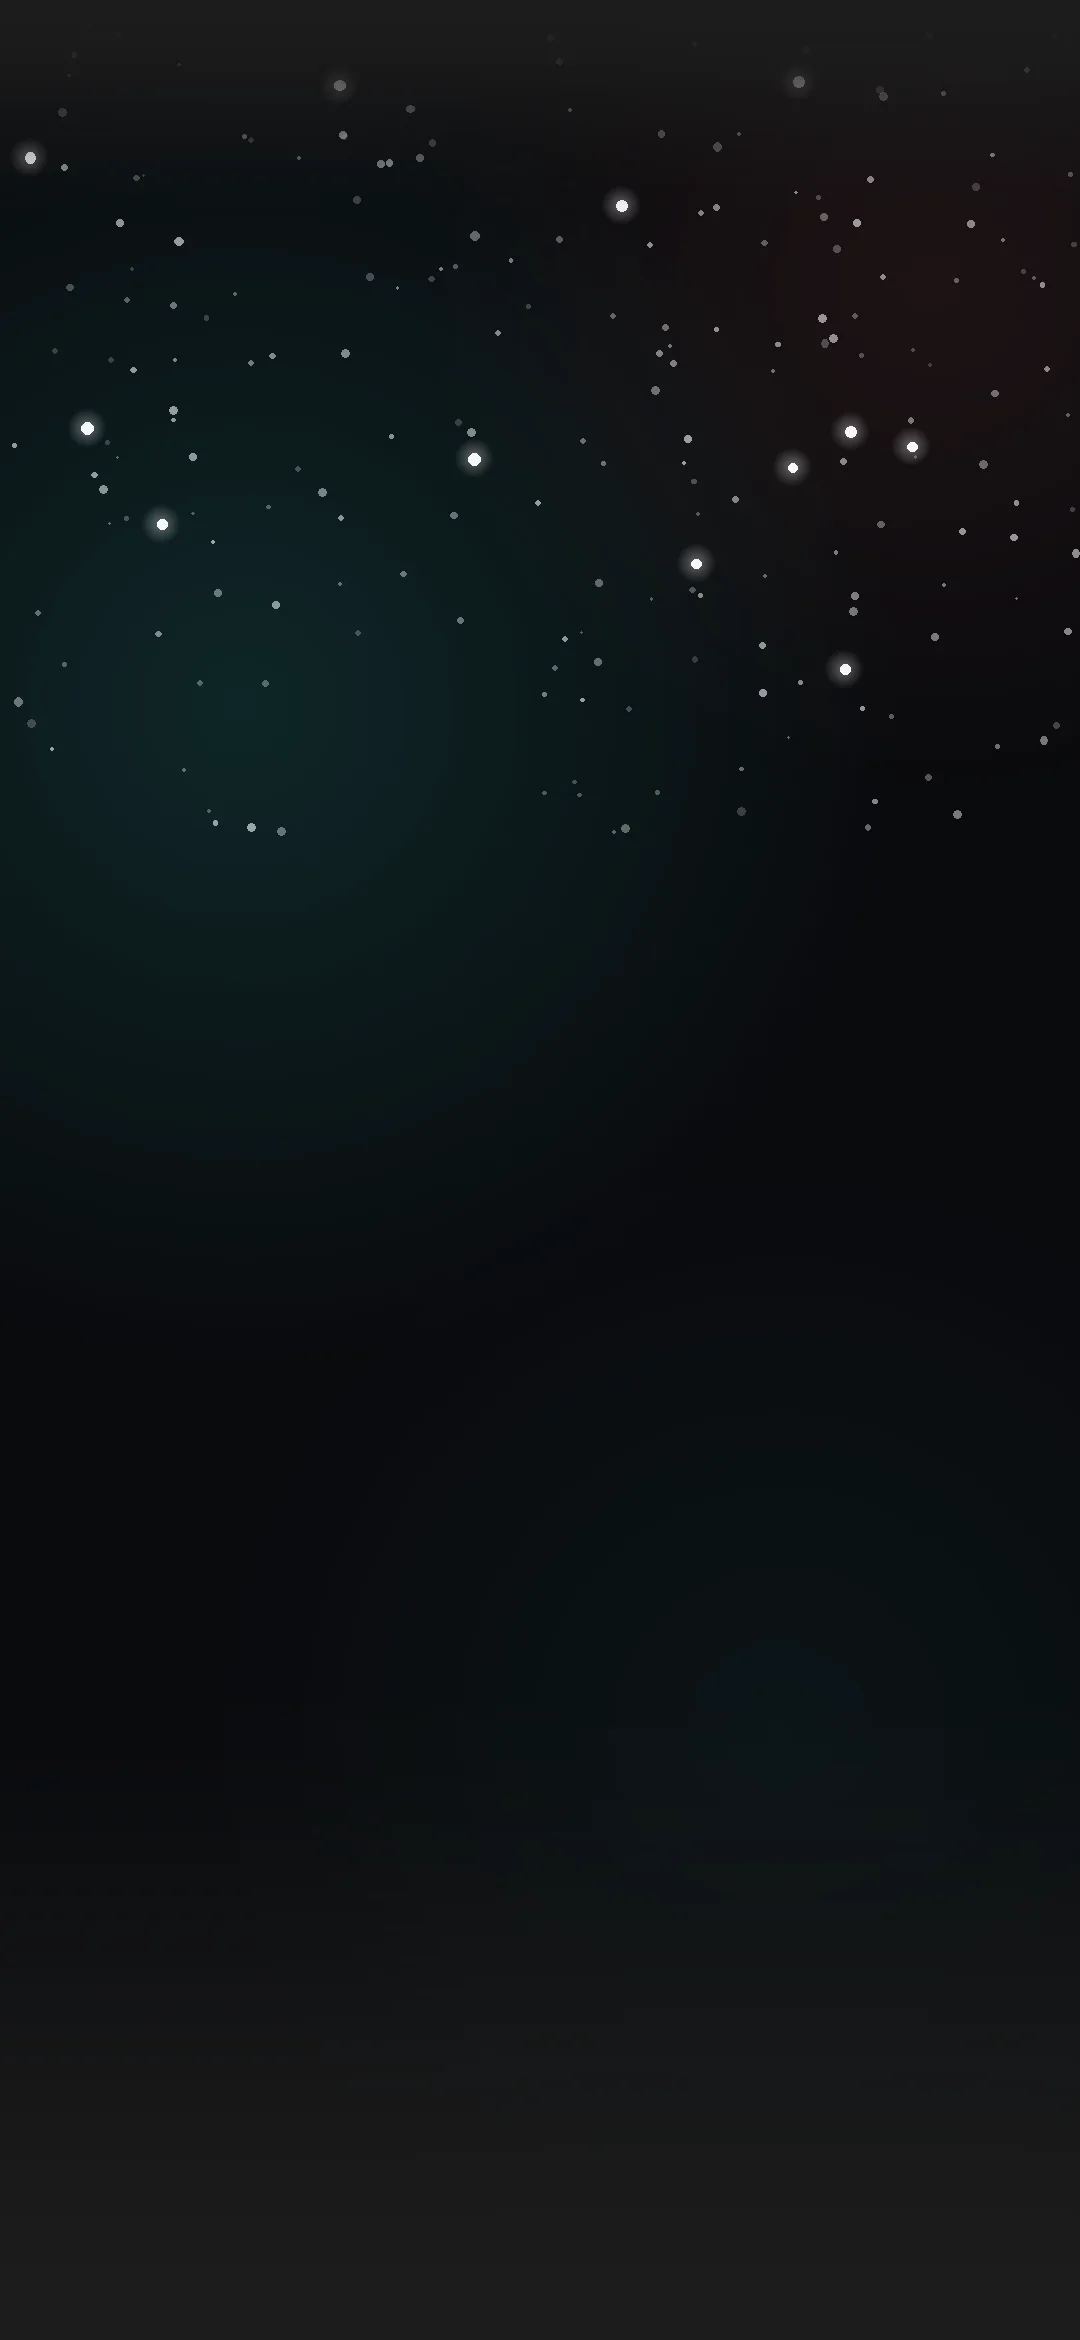
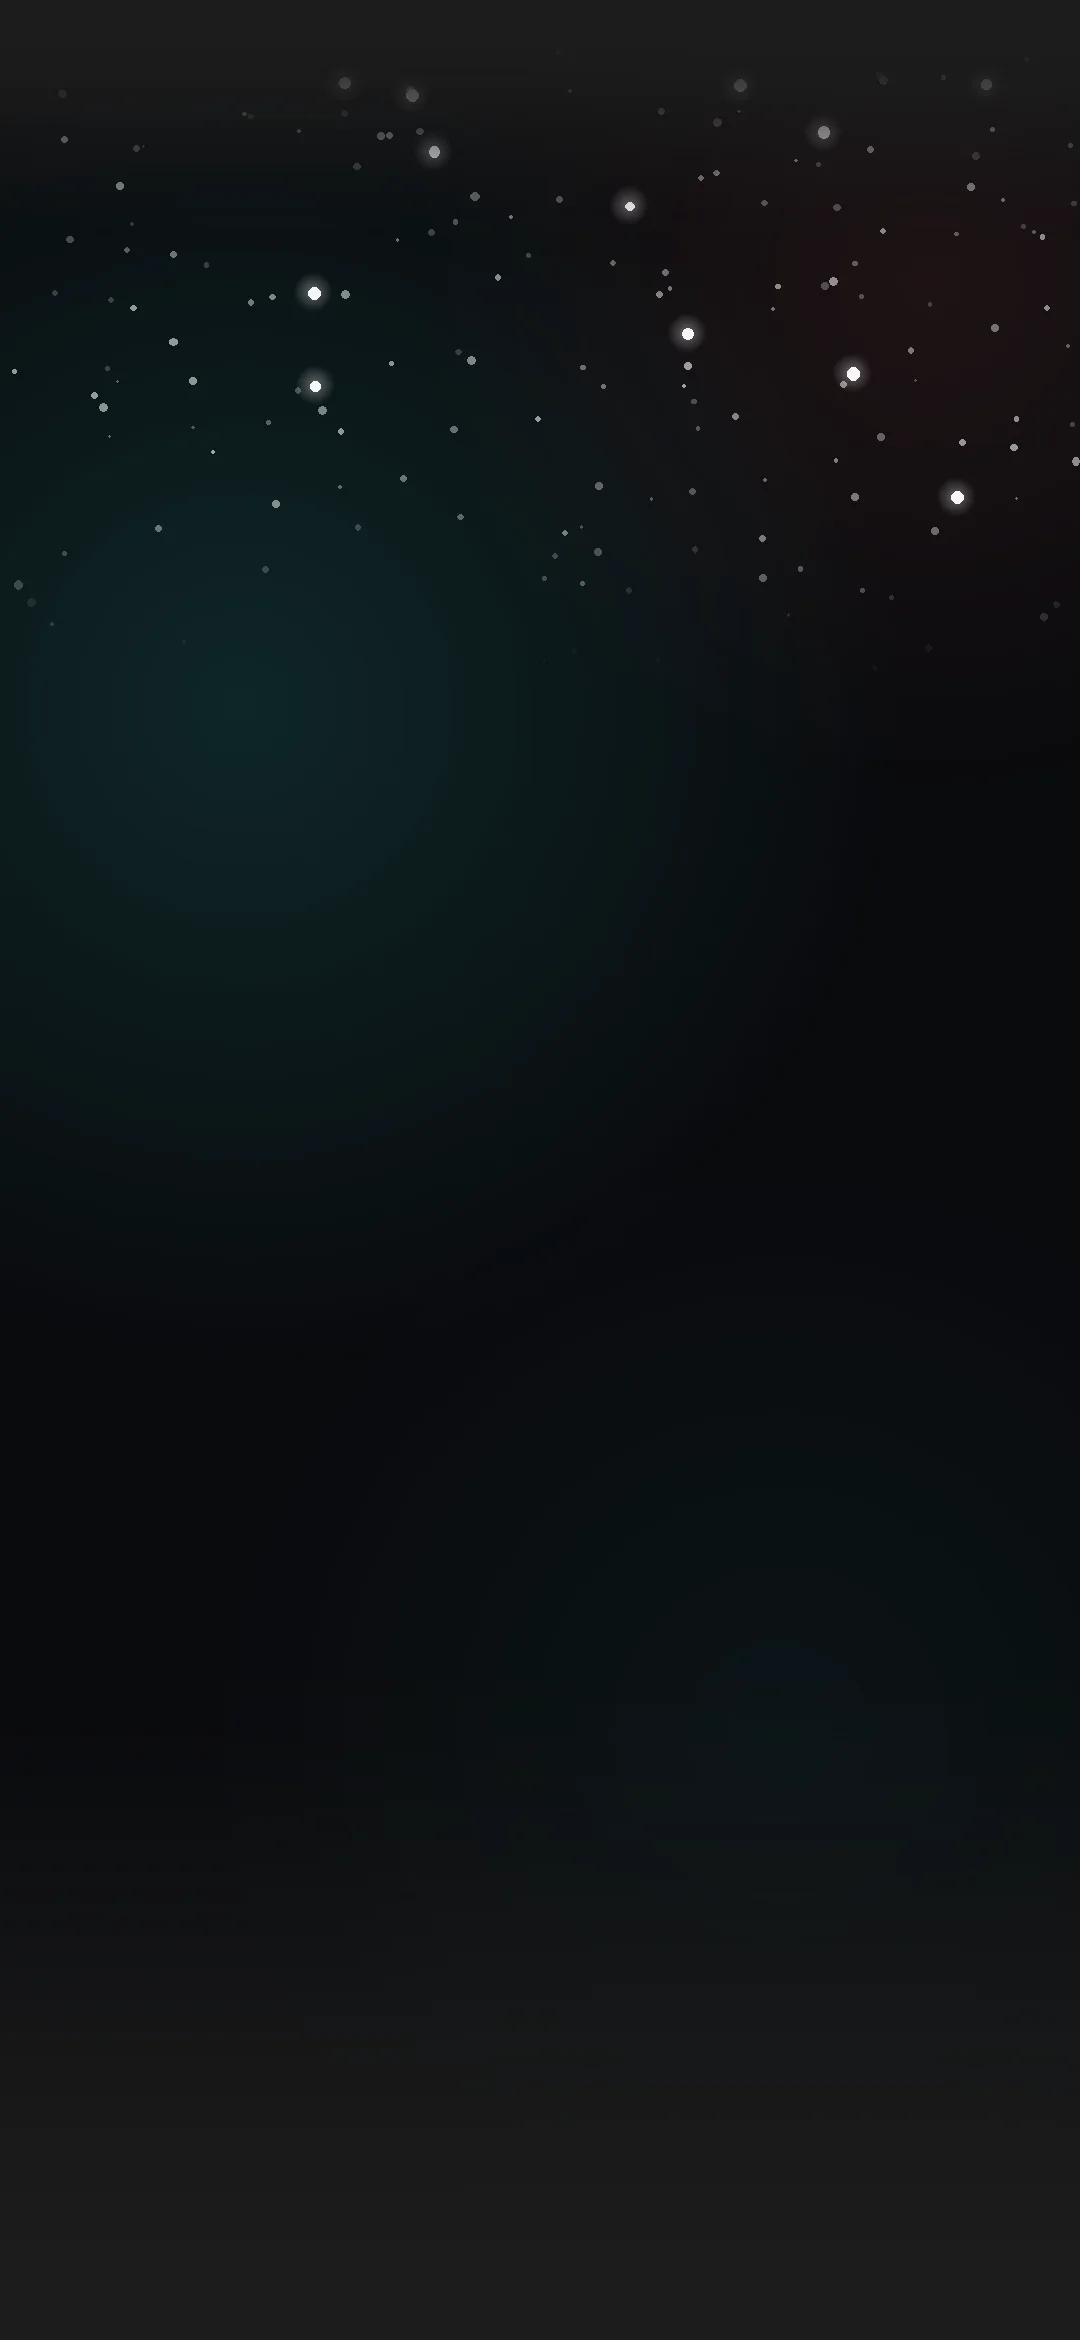
fix(aura): las estrellas se apagan antes de llegar a la leyenda
Visto en el teléfono de Carlos (360 × ~650 útiles en una pestaña de Chrome): las
estrellas llegaban hasta la leyenda y rozaban la primera entrada; un punto entre dos
palabras de «Cada lugar tiene un aura.» se leía como un apóstrofo. La zona de
estrellas (36 % del alto de la imagen) estaba calculada para una pantalla de 720 de
alto, donde la leyenda cae más abajo que en la suya.

- Las estrellas brillan a pleno hasta el 20 % del alto y se desvanecen hasta el 30 %;
  las grandes, solo hasta el 22 %. En la apaisada, 30 % → 46 %. Ya no terminan en una
  raya ni tocan el texto en reposo ni con un borrador de dos líneas.
- MARGEN de 24 px de --bg plano en cada borde fundido antes de que empiece la rampa.
  Al mover las estrellas, el codificador WebP dejó la fila 0 de la apaisada a
  (27,27,27): lo cazó el assert sobre los bytes a servir, y como ahora se comprueba
  ANTES de escribir, el archivo bueno no se pisó. Con el margen el borde sale exacto.
- Los dos .webp se regeneran (13 KB y 12 KB).

diff --git a/docs/branding/aura/genera_aura.py b/docs/branding/aura/genera_aura.py
@@ -19,10 +19,15 @@ La profundidad sale de OSCURECER el centro, no de aclarar los bordes.
 La comprobación se hace sobre el ARCHIVO ya guardado (WebP con pérdida), no sobre la imagen en
 memoria: es el archivo lo que se sirve.
 
-Las estrellas viven solo en el 36 % superior de la imagen vertical (281 px en un teléfono de 360):
-en una pantalla de 720 de alto la leyenda cae a 324 px, y una estrella pegada al texto lo ensucia.
-Esa garantía vale para teléfonos en vertical. En una tableta en vertical (768×1024) la imagen
-escala al doble y alguna estrella llega a la altura de la leyenda: caso menor, aceptado.
+Las estrellas viven arriba y se APAGAN antes de llegar al texto: a pleno brillo hasta el 20 % del
+alto de la imagen vertical (156 px en un teléfono de 360) y desvaneciéndose hasta el 30 % (234 px);
+las grandes, solo hasta el 22 %. Una estrella pegada a la leyenda la ensucia: leída en el teléfono
+de Carlos (360 × ~650 útiles en una pestaña de Chrome), un punto entre dos palabras parecía un
+apóstrofo. La primera versión llegaba al 36 % (281 px), calculada para una pantalla de 720 donde la
+leyenda cae a 324; en la suya la leyenda está a ~270 px en reposo y a ~240 con un borrador de dos
+líneas. Con cuatro líneas de borrador la leyenda sube a ~215 y toca la franja que ya se apaga.
+Esto vale para teléfonos en vertical. En una tableta en vertical (768×1024) la imagen escala al
+doble y alguna estrella llega a la altura de la leyenda: caso menor, aceptado.
 """
 import io
 import sys
@@ -56,10 +61,18 @@ def suave(t):
     return t * t * (3 - 2 * t)
 
 
+MARGEN = 24   # px de --bg PLANO en cada borde fundido, antes de que empiece la rampa
+
+
 def mascara_borde(w, h, arriba, abajo, lados):
-    """255 en el interior, 0 en los bordes, con rampas suaves. Fracciones del alto / ancho."""
-    fila = [int(255 * suave(y / (h * arriba)) * suave((h - 1 - y) / (h * abajo))) for y in range(h)]
-    col = [int(255 * (suave(x / (w * lados)) * suave((w - 1 - x) / (w * lados)) if lados else 1.0)) for x in range(w)]
+    """255 en el interior, 0 en los bordes, con rampas suaves. Fracciones del alto / ancho.
+
+    La rampa no empieza en el píxel 0 sino tras MARGEN px planos: WebP con pérdida trabaja por
+    bloques y, con algo de señal a un par de píxeles, deja el borde a ±1 nivel (pasó: 27,27,27 en
+    la fila 0 de la apaisada al mover las estrellas). Con el margen el borde sale exacto.
+    """
+    fila = [int(255 * suave((y - MARGEN) / (h * arriba)) * suave((h - 1 - MARGEN - y) / (h * abajo))) for y in range(h)]
+    col = [int(255 * (suave((x - MARGEN) / (w * lados)) * suave((w - 1 - MARGEN - x) / (w * lados)) if lados else 1.0)) for x in range(w)]
     mv = Image.new('L', (1, h)); mv.putdata(fila); mv = mv.resize((w, h))
     mh = Image.new('L', (w, 1)); mh.putdata(col); mh = mh.resize((w, h))
     return ImageChops.multiply(mv, mh)
@@ -87,13 +100,17 @@ def aura(w, h, apaisado):
     d = ImageDraw.Draw(cielo, 'RGBA')
     rnd = mulberry(SEMILLA)
     s = (w / 369) if not apaisado else (h / 800)          # densidad de la maqueta
-    n = 200 if not apaisado else 320
+    n = 170 if not apaisado else 320
+    # Las estrellas no terminan en una raya: brillan a pleno hasta PLENA y se apagan hasta ZONA
+    # (fracciones del alto de la imagen). Ver el docstring: por qué .30 y no .36.
+    plena, zona = (.20, .30) if not apaisado else (.30, .46)
     for _ in range(n):
-        x, y = rnd() * w, rnd() * h * (.36 if not apaisado else .46)
+        x, y = rnd() * w, rnd() * h * zona
         r = (.35 + rnd() * 1.1) * s
-        d.ellipse((x - r, y - r, x + r, y + r), fill=(255, 255, 255, int((.18 + rnd() * .42) * 255)))
+        apagado = 1 - suave((y / h - plena) / (zona - plena))
+        d.ellipse((x - r, y - r, x + r, y + r), fill=(255, 255, 255, int((.18 + rnd() * .42) * apagado * 255)))
     for _ in range(12 if not apaisado else 18):
-        x, y = rnd() * w, rnd() * h * (.30 if not apaisado else .40)
+        x, y = rnd() * w, rnd() * h * (.22 if not apaisado else .34)
         r = (1.3 + rnd() * .9) * s
         brillo(cielo, x, y, 7 * s, (255, 255, 255), .35)
         ImageDraw.Draw(cielo, 'RGBA').ellipse((x - r, y - r, x + r, y + r), fill=(255, 255, 255, 242))
